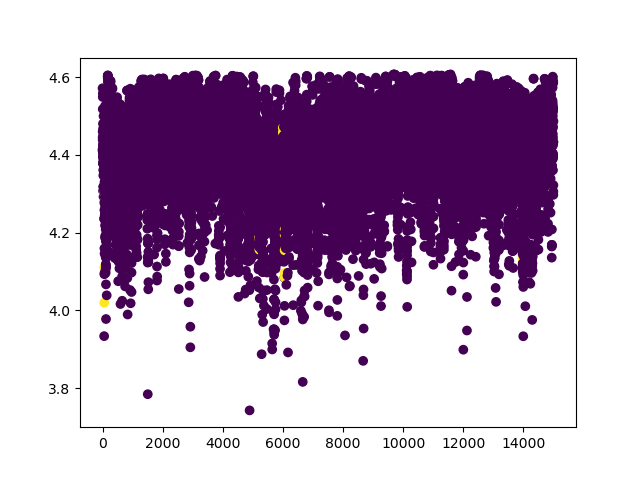
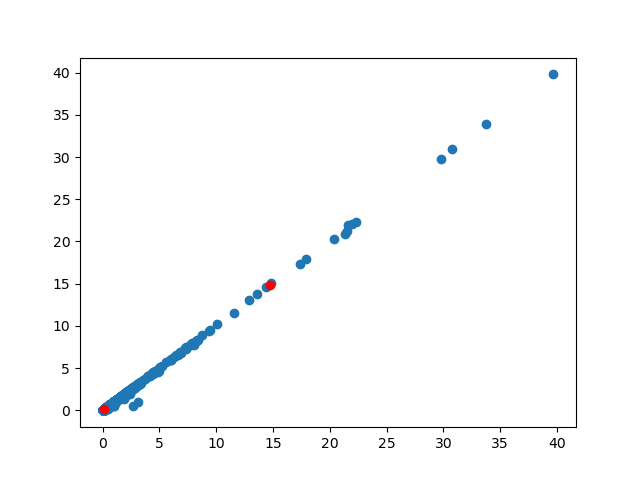
Premier affichage de cluster

diff --git a/M1/machine_learning/clustering.py b/M1/machine_learning/clustering.py
@@ -85,13 +85,12 @@ whitened = scipy.cluster.vq.whiten(union)
 codebook,distorsion = scipy.cluster.vq.kmeans(whitened,2)
 print(codebook)
 
+plt.scatter(whitened[:,0], whitened[:,1])
 
 plt.scatter(codebook[:,0], codebook[:,1],c='r')
-
 plt.show()
 
 labels, _ = scipy.cluster.vq.vq(union, codebook)
-
 
 
 fig = plt.figure(figsize=(20, 20))
